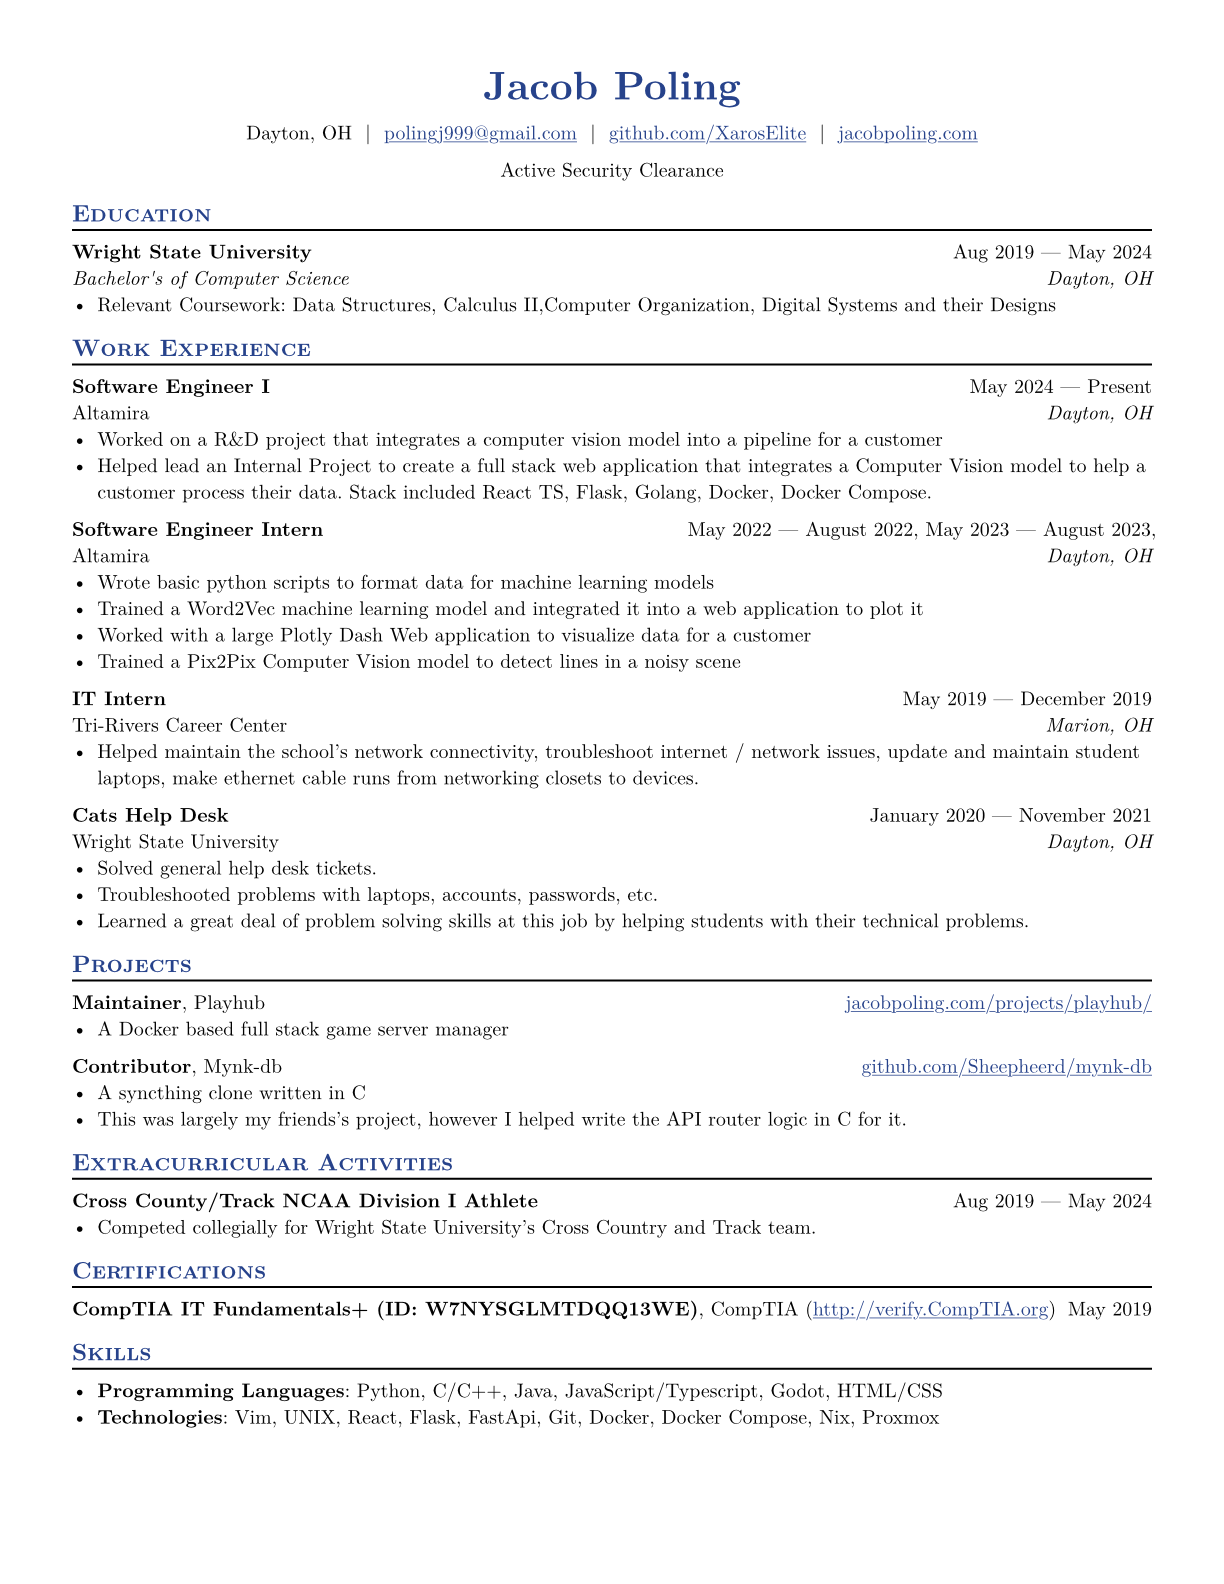
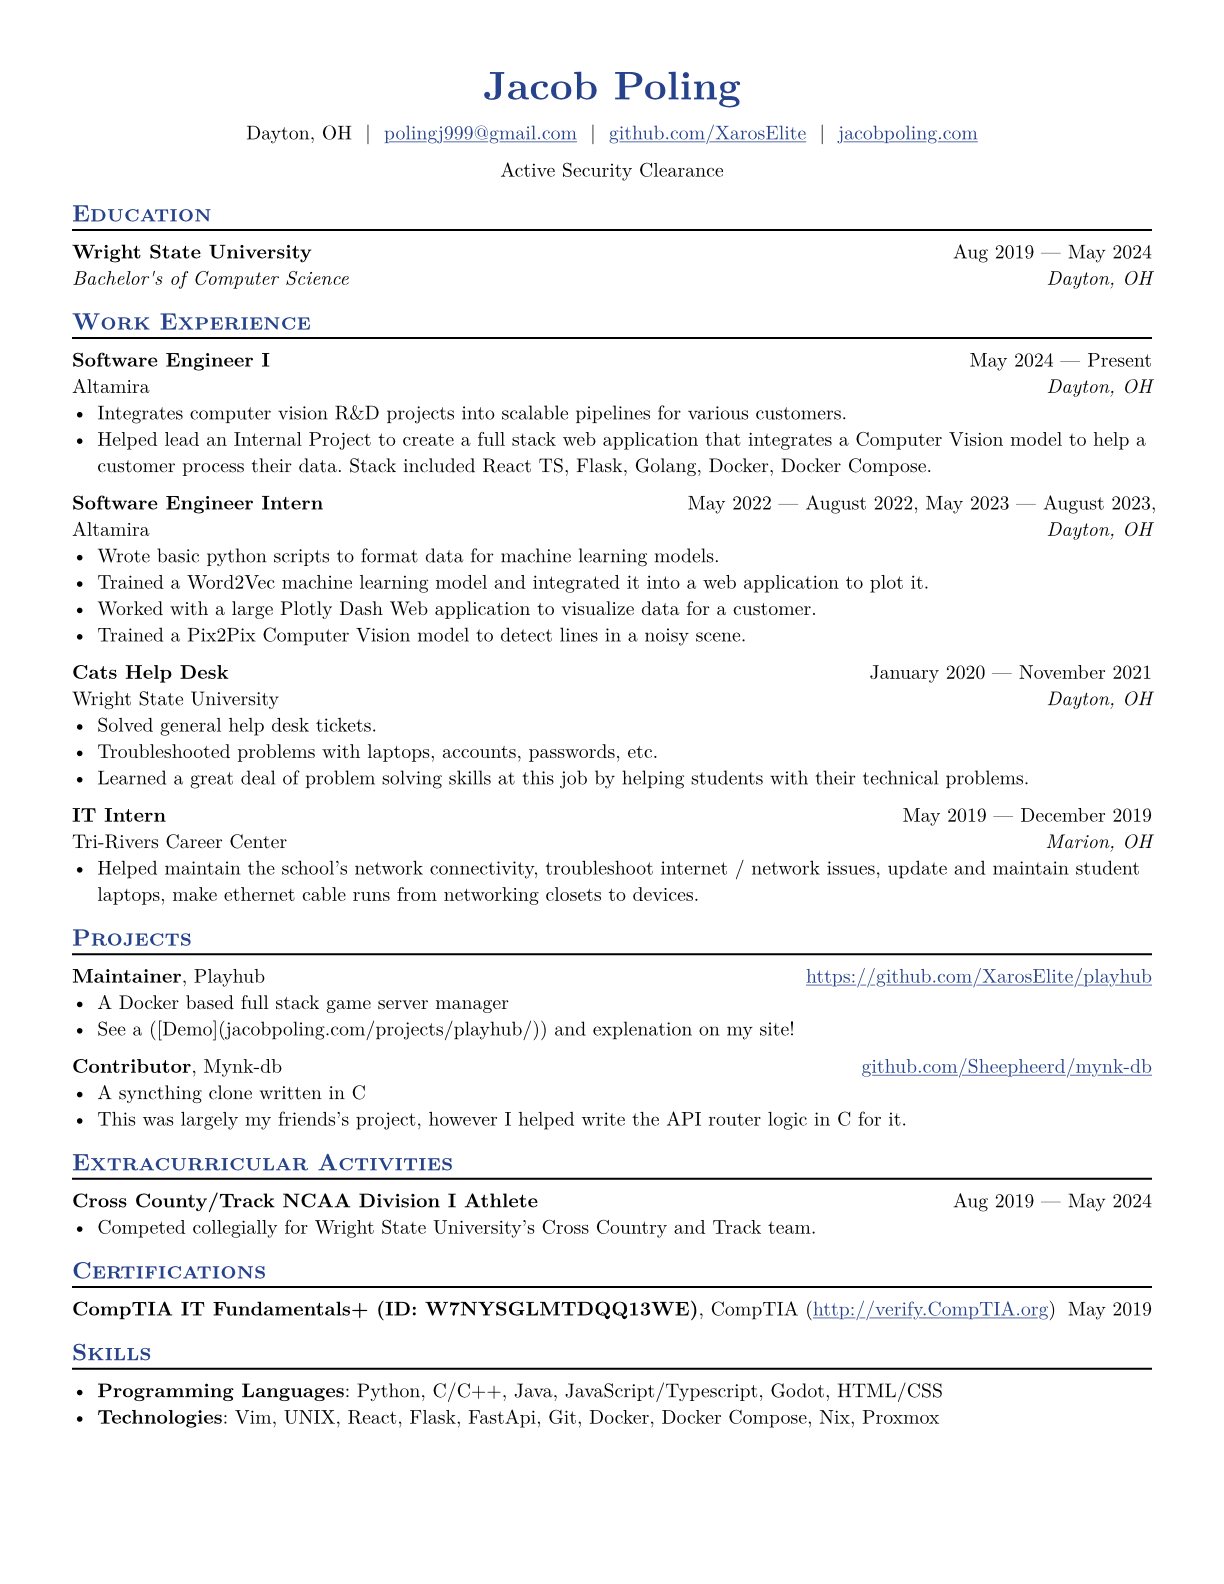
Fixed playhub links and some wording

diff --git a/README.md b/README.md
@@ -3,6 +3,3 @@ A typist resume... Inspired by a dear friend
 
 [![View my Resume!](./preview.png)](./resume.pdf)
 
-More updates to come
-
-
